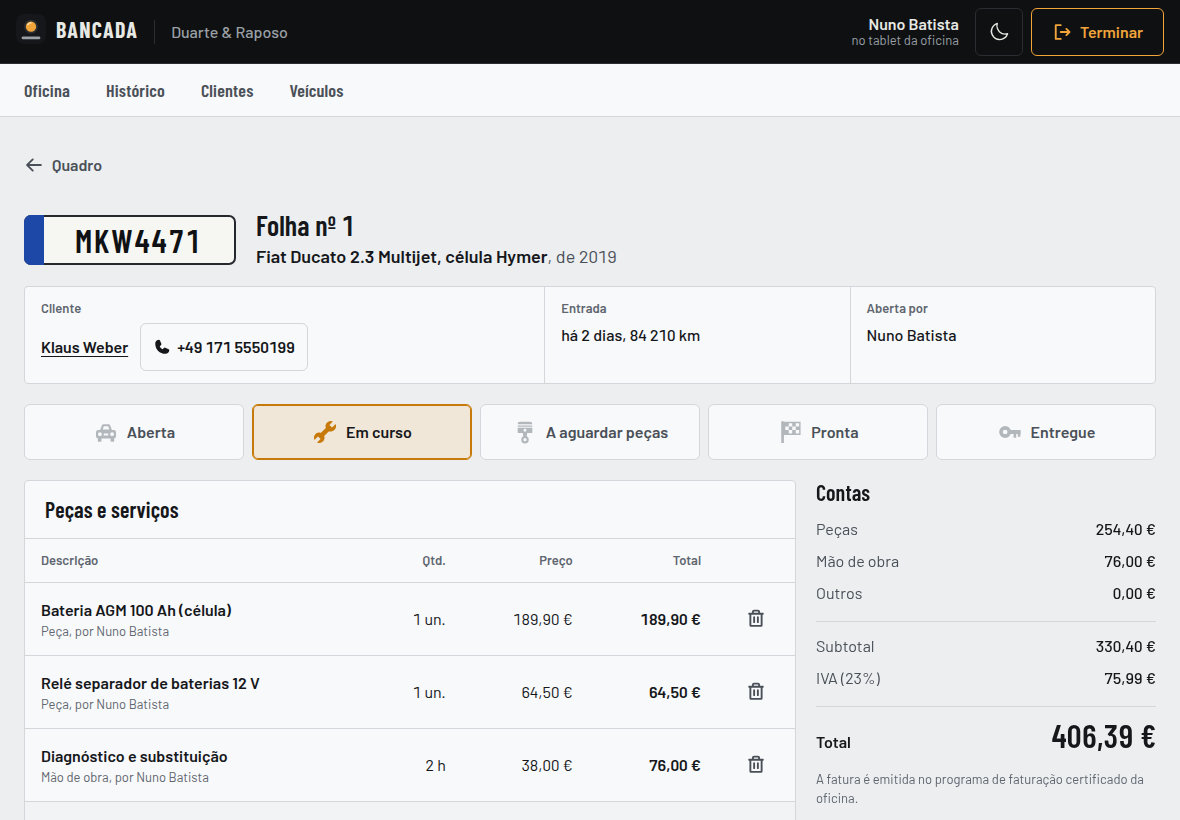
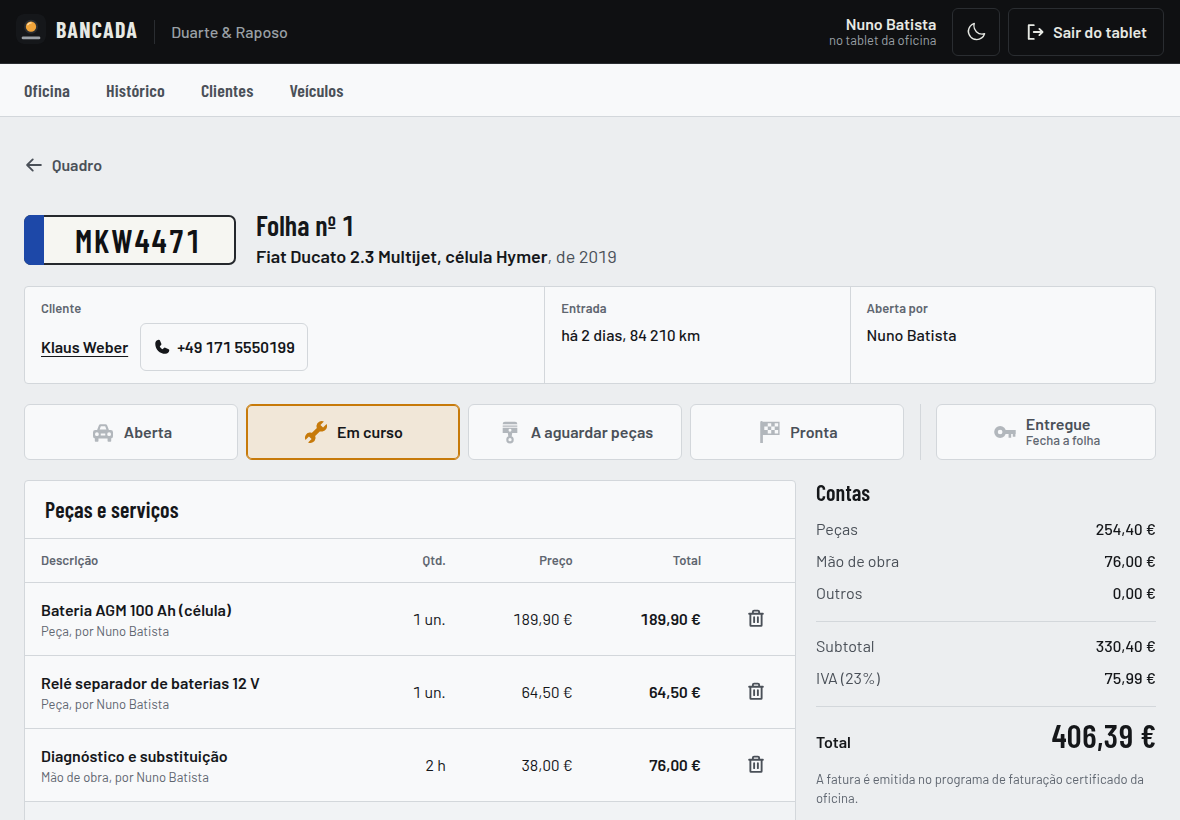
Botão de sair neutro ("Sair do tablet") e um só botão âmbar no quadro vazio (#17)
O botão de sair deixa de ter contorno âmbar (competia com a ação principal de todos os ecrãs no tablet) e, no tablet partilhado, chama-se "Sair do tablet". Com 520 px ou menos fica só o ícone, e a barra de topo deixa de transbordar a 390 px e a 360 px. O quadro vazio fica com um só botão âmbar. O DESIGN.md deixa de se contradizer (barra de topo e 6 px nos botões e campos), e as capturas do README mostram o botão e o seletor novos.

diff --git a/frontend/src/styles/componentes.css b/frontend/src/styles/componentes.css
@@ -126,10 +126,17 @@
     border-color: var(--painel-aro);
   }
 }
-.topo__sair--tablet {
-  padding: 0 var(--e-5);
-  border-color: var(--ambar);
-  color: var(--ambar);
+/* sair é neutro, no computador e no tablet: o âmbar é da ação principal do
+   ecrã (Regra da Voz Única) e um botão de sair a competir com ela era o que
+   mais ruído fazia. No tablet não há hover: também responde ao dedo */
+.topo__sair {
+  padding: 0 var(--e-4);
+  white-space: nowrap;
+}
+.topo__icone:active,
+.topo__sair:active {
+  background: var(--painel-2);
+  border-color: var(--painel-aro);
 }
 .topo__icone:focus-visible,
 .topo__sair:focus-visible {
@@ -1265,6 +1272,17 @@ a.lista__item:focus-visible {
     margin-top: var(--e-1);
     padding: 5px 9px 4px;
     border-radius: 3px;
+  }
+}
+
+/* só o ícone (o botão tem o nome em aria-label): com o texto, a barra de topo
+   transbordava (43 px no tablet a 390 px, 22 px a 360 px no computador) */
+@media (max-width: 520px) {
+  .topo__sair {
+    padding: 0;
+  }
+  .topo__sair-texto {
+    display: none;
   }
 }
 

diff --git a/frontend/src/components/Moldura.jsx b/frontend/src/components/Moldura.jsx
@@ -69,9 +69,14 @@ export function Moldura() {
             >
               {tema === 'escuro' ? <Sun size={22} aria-hidden="true" /> : <Moon size={22} aria-hidden="true" />}
             </button>
-            <button type="button" className={`topo__sair ${noTablet ? 'topo__sair--tablet' : ''}`} onClick={terminar}>
+            <button
+              type="button"
+              className="topo__sair"
+              onClick={terminar}
+              aria-label={noTablet ? 'Sair do tablet' : 'Sair'}
+            >
               <SignOut size={20} weight="bold" aria-hidden="true" />
-              {noTablet ? 'Terminar' : 'Sair'}
+              <span className="topo__sair-texto">{noTablet ? 'Sair do tablet' : 'Sair'}</span>
             </button>
           </div>
         </div>

diff --git a/frontend/src/pages/Quadro.jsx b/frontend/src/pages/Quadro.jsx
@@ -105,10 +105,8 @@ export default function Quadro() {
         )}
 
         {itens && itens.length === 0 && (
-          <Vazio
-            titulo="A oficina está vazia."
-            acao={<Botao variante="primario" para="/entrada" icone={Plus}>Dar entrada a um veículo</Botao>}
-          >
+          // sem botão aqui: a "Nova entrada" está mesmo por cima, e dois botões âmbar a fazer o mesmo eram dois a falar
+          <Vazio titulo="A oficina está vazia.">
             Quando um veículo entrar, aparece aqui com a luz do estado em que está.
           </Vazio>
         )}

diff --git a/frontend/src/pages/Bancada.jsx b/frontend/src/pages/Bancada.jsx
@@ -12,7 +12,7 @@ import '../styles/entrada.css';
 
 // o ecrã de descanso do tablet partilhado: "Quem vai trabalhar?".
 // Cada mecânico toca no seu nome e escreve o PIN. Tudo o que fizer a seguir
-// fica registado em nome dele, até tocar em Terminar (ou ficar parado).
+// fica registado em nome dele, até tocar em "Sair do tablet" (ou ficar parado).
 //
 // É o ecrã que o tablet mais mostra (fica assim quase o dia todo), por isso
 // também diz o estado da oficina: o tablier grande, só de leitura, por cima

diff --git a/CLAUDE.md b/CLAUDE.md
@@ -116,7 +116,8 @@ Memória do projeto para o Claude Code. É carregado no início de cada sessão 
   - **Feito (`layout`):** o ecrã de descanso (`/bancada`) mostra o tablier grande e só de leitura por cima de "Quem vai trabalhar?", com o bloco centrado; sem ligação, os números esbatem-se e dizem de quando são. O `GET /api/auth/bancada` devolve também `porEstado` (só as contagens da oficina do dispositivo; 2 testes novos, 54 no total). Na sessão do tablet, aviso 30 s antes do bloqueio por inatividade ("Ainda estás aí?", botão neutro "Continuar"; tocar ou carregar numa tecla também continua). O Tablier ganhou `somenteLeitura`, `grande` e `antigo`; as medidas passaram a variáveis CSS (`--tablier-simbolo`, `--tablier-nome`, `--tablier-numero`). Verificado no browser em dois temas e quatro larguras, e com o relógio simulado para o aviso.
   - **Feito (`harden`):** no seletor de estado da folha, "Entregue" passou a pedir um segundo toque e a ficar à parte dos quatro estados de trabalho (uma linha e 32 px de intervalo; fila própria abaixo de 1101 px), com "Fecha a folha" à vista em vez de num `title` que o toque não mostra. Reabrir uma folha entregue também pede dois toques, porque reabrir limpa a data de entrega. A pergunta inverte o botão (tinta, nem vermelho nem âmbar), caduca aos 4 s, com Escape, quando o foco sai, quando a folha muda entretanto e quando se toca noutro estado; um segundo toque a menos de 0,4 s do primeiro não conta. Passou a `role="group"` com `aria-pressed` (resolve o item do seletor na secção 10 de `docs/revisao-codigo.md`) e a ter uma linha `role="status"` para leitores de ecrã. O botão tocado diz "A gravar...", o pedido desiste aos 15 s (opção nova `tempoLimite` no cliente da API), o erro fica 8 s e a folha volta a pedir-se (a resposta pode ter-se perdido, ou um colega pode tê-la entregue). Achada e corrigida uma corrida real em `useRecurso`: a atualização de 30 s que já ia a caminho trazia os dados de antes e desfazia no ecrã a alteração gravada (reproduzida sem a correção; com ela deixa de acontecer). Verificado no Chromium com toques simulados: 197 verificações (dois temas em quatro tamanhos; no tema claro, 16 larguras de 360 a 1440 px e a letra a 200%), axe sem violações, mecânico contra gestor, e as falhas 500, 409, sem rede, lento e sem resposta; `npm test` com 54 testes. **Não verificado:** um leitor de ecrã a sério e um tablet a sério.
   - **Feito (`adapt`):** o tablier do quadro do tablet partilhado (modo bancada, `colaborador.via === 'pin'`) sobe um degrau para se ler de pé a 1 ou 2 m. A partir de 1024 px, símbolo de 80 px, nome de 20 px e número de 52 px (154 px por luz); entre 761 e 1023 px, 2×2 com 72 px e 44 px; abaixo disso, como estava. Liguei o tamanho ao modo bancada e não a `pointer: coarse`: a app sabe que é o tablet partilhado, e detetar o toque é um palpite (um gestor com um iPad na secretária, ou um ecrã de parede sem toque, enganam-no). A lista de baixo perde 42 px (4,6 filas visíveis a 820 px, em vez de 5,1). A luz responde ao dedo enquanto se carrega (`:active`). A conta do ângulo visual para um tablet de 10,9" (número de 52 px: 15,9 minutos de arco a 1,5 m, contra 7,9 antes) está no `DESIGN.md`. Verificado no Chromium (toques simulados; não é Safari nem um tablet a sério) em dois temas e dez contextos (tablets de 1024 a 1366 px, ao alto, telemóvel, computador e tablet do gestor), com a oficina cheia (3 algarismos), vazia e a carregar, deslizar a começar numa luz (rola a página e não filtra), axe sem violações e o ecrã reduzido a 40% e a 30% para simular 1,5 e 2 m. **Não verificado:** o teste a 1,5 m num tablet montado na oficina. O `docs/imagens/quadro-tablet.png` do README foi refeito com o quadro novo.
-  - **Por fazer da crítica:** `quieter` ("Terminar" neutro e a chamar-se "Sair do tablet"; corrigir o DESIGN.md: linhas 302 e 398 contradizem-se, e as linhas 374 e 393 dizem 10 px nos botões e campos contra 6 px no código), o `polish` final e os P2 fora do âmbito (um só âmbar nos outros ecrãs, gravação automática das notas). Visto de passagem e não tratado: a 390 px a barra de topo do tablet corta o botão "Terminar", a 360 px a barra de topo transborda 22 px (já era assim), e os avisos de erro dos outros ecrãs continuam a durar 3,2 s (só o da mudança de estado da folha dura 8 s).
+  - **Feito (`quieter`):** o botão de sair deixou de ter contorno âmbar (competia com a ação principal de todos os ecrãs no tablet: a Regra da Voz Única) e no tablet partilhado chama-se "Sair do tablet" em vez de "Terminar" (no computador continua "Sair"). É neutro nos dois modos, responde ao dedo (`:active`) e, com 520 px ou menos, fica só com o ícone (o nome em `aria-label`): a barra de topo deixou de transbordar a 390 px no tablet (43 px) e a 360 px no computador (22 px). A 320 px ainda transborda 28 px: não tratado. O quadro vazio ficou com um só botão âmbar (saiu o "Dar entrada a um veículo", que fazia o mesmo que a "Nova entrada" mesmo por cima). No `DESIGN.md`, a barra de topo já não contradiz a Regra da Voz Única e os botões e os campos dizem 6 px (não 10 px). No sidecar `.impeccable/design.json` e no contrato do quadro só mudou o que referia o botão. No tablet há menos um botão âmbar em todos os ecrãs. Verificado no Chromium (toques simulados): 64 verificações, dois temas, larguras de 320 a 820 px, sair por toque e por teclado, axe sem violações. As capturas `quadro-tablet.png` e `folha.png` do README foram refeitas (a `folha.png` ainda mostrava o seletor de antes do `harden`).
+  - **Por fazer da crítica:** o `polish` final e os P2 fora do âmbito. Um só âmbar no que resta: a Folha tem "Adicionar" e o segmento escolhido do "Tipo", e "Guardar notas" passa a âmbar quando as notas mudam; a nova entrada com cliente novo tem "Guardar cliente", "Continuar" e o segmento escolhido. O `DESIGN.md` (Segmentos) documenta o âmbar do segmento escolhido, e isso contradiz a Voz Única (a lista dos usos permitidos do âmbar não o inclui). Não convém pôr "Guardar notas" a secundário antes da gravação automática das notas, o outro P2. Visto de passagem e não tratado: os avisos de erro dos outros ecrãs continuam a durar 3,2 s (só o da mudança de estado da folha dura 8 s).
 - Este trabalho entrou no `dev` por PRs do ramo `claude/ecstatic-lamport-81qsk8`: o #1 (plataforma, interface, testes e documentação), o #2 (documento das ferramentas), o #3 (auditoria), o #4 e o #7 (memória), o #5 (licença e aviso), o #8 (revisão de código) e o do guia de arranque. A 27/09/2026 o `dev` passou para o `main` pelo PR #6, com o merge feito pelo autor. O que entrou no `dev` depois disso (do #7 em diante) só aparece na página do GitHub quando o `dev` voltar a passar para o `main`, e isso tem de ser pedido ao autor.
 
 **Por fazer** (sugestões, nada disto existe):
@@ -160,4 +161,5 @@ Memória do projeto para o Claude Code. É carregado no início de cada sessão 
 - **30/09/2026**:
   - crítica de design do Quadro com a impeccable (28/40) e primeiro passo do plano, o `layout` do ecrã de descanso da bancada com o aviso antes do bloqueio (ver o Estado atual);
   - segundo passo do plano, o `harden` do seletor de estado da folha: Entregue com dois toques, erros e corrida entre a atualização e a gravação (ver o Estado atual);
-  - terceiro passo, o `adapt`: o tablier do quadro maior no tablet partilhado, para se ler a 1 ou 2 m (ver o Estado atual).
+  - terceiro passo, o `adapt`: o tablier do quadro maior no tablet partilhado, para se ler a 1 ou 2 m (ver o Estado atual);
+  - quarto passo, o `quieter`: "Sair do tablet" neutro, um só botão âmbar no quadro vazio e o `DESIGN.md` sem as incoerências (ver o Estado atual).

diff --git a/DESIGN.md b/DESIGN.md
@@ -371,7 +371,7 @@ Os pictogramas das luzes estão numa grelha de 32 × 32 e usam formas cheias com
 ## Components
 
 ### Buttons
-- **Shape:** cantos suaves (10 px). 48 px de altura, 56 px no tamanho grande.
+- **Shape:** cantos de 6 px (`controlo`: os botões são peças de ferramenta). 48 px de altura, 56 px no tamanho grande.
 - **Primary:** fundo âmbar e texto quase preto, em peso 600. Uma por ecrã. Pode levar a "luz indicadora" de 10 px à esquerda, que pisca enquanto espera pela API, fica verde se correu bem e vermelha se falhou.
 - **Hover / Focus:** o hover só existe em dispositivos com rato (`@media (hover: hover)`). Premir desce o botão 1 px. O foco é um contorno de 2 px em `foco`, afastado 2 px.
 - **Secondary / Ghost:** o secundário tem fundo `superficie-2` e contorno `linha`. O fantasma não tem fundo e o texto é `tinta-2`. É o fantasma que se usa em ações repetidas numa lista, como remover uma linha.
@@ -390,12 +390,12 @@ Os pictogramas das luzes estão numa grelha de 32 × 32 e usam formas cheias com
 - **Uma caixa por ecrã, quando possível.** Na folha de obra, só as linhas ficam em papel; as contas e as notas vão ao lado sem caixa, separadas por uma linha. Os dados da entrada (cliente, entrada, aberto por) ficam em caixas como os campos impressos de uma folha de obra em papel: a etiqueta pequena no canto e o valor por baixo.
 
 ### Inputs / Fields
-- **Style:** fundo `superficie-2`, contorno de 1 px em `linha-forte`, cantos de 10 px, 48 px de altura (56 px na pesquisa do quadro). A etiqueta fica sempre por cima do campo, em Label. O placeholder nunca substitui a etiqueta.
+- **Style:** fundo `superficie-2`, contorno de 1 px em `linha-forte`, cantos de 6 px, 48 px de altura (56 px na pesquisa do quadro). A etiqueta fica sempre por cima do campo, em Label. O placeholder nunca substitui a etiqueta.
 - **Focus:** contorno em `foco` e um anel de 3 px em `foco` a 28%.
 - **Error / Disabled:** contorno `erro` e a mensagem por baixo em `erro`, com peso 500. O erro geral do formulário aparece num bloco no fim, antes do botão.
 
 ### Navigation
-- **Barra de topo:** sempre grafite, 64 px. À esquerda a marca e o nome da oficina, à direita o nome de quem está a trabalhar, o botão de tema e Sair. No tablet partilhado aparece "no tablet da oficina" por baixo do nome, e Sair passa a "Terminar", com contorno âmbar.
+- **Barra de topo:** sempre grafite, 64 px. À esquerda a marca e o nome da oficina, à direita o nome de quem está a trabalhar, o botão de tema e o de sair. No tablet partilhado aparece "no tablet da oficina" por baixo do nome, e Sair passa a "Sair do tablet". Os dois botões são neutros (contorno `painel-linha`, texto `painel-tinta`, fundo `painel-2` ao passar o rato ou ao premir): o âmbar é da ação principal do ecrã, e um botão de sair com contorno âmbar a competir com ela era o que mais ruído fazia (Regra da Voz Única). Com 520 px ou menos o botão de sair fica só com o ícone (o nome fica em `aria-label`), porque com o texto a barra transbordava (43 px a 390 px no tablet, 22 px a 360 px no computador). A 320 px ainda transborda 28 px: não está tratado.
 - **Separadores:** Oficina, Histórico, Clientes e Veículos, mais Equipa e Definições para o gestor. Ficam numa faixa `superficie` com 52 px de altura, só com o nome, em Tab (a letra das placas). O ativo fica com o texto em `tinta` e a barra âmbar de 3 px por baixo. Em ecrãs estreitos a faixa faz scroll na horizontal.
 - **Ecrãs de entrada** (Entrar e Registar): uma faixa grafite em cima, com a marca e uma frase a dizer o que é a Bancada à esquerda e as quatro luzes do tablier à direita, que fazem o autoteste de quando se roda a chave. O formulário fica por baixo, na superfície de trabalho, alinhado pela mesma aresta da marca. Não há lema de marketing nem ecrã dividido ao meio.
 - **Ecrã de descanso da bancada** (`/bancada`): é o que o tablet mostra quase o dia todo, por isso diz o estado da oficina antes de pedir quem vai trabalhar. Por ordem: o tablier grande e só de leitura, "Quem vai trabalhar?" (2.25rem, um degrau abaixo) e os nomes. O bloco fica no meio do ecrã (com muitos nomes, começa no topo e desce). O intervalo entre o tablier e o título (48 px) é maior do que o resto: são dois grupos, o que se lê e o que se toca. Só mostra números (a API devolve as contagens por estado da oficina do dispositivo, sem dados de clientes nem de veículos); para tocar numa folha continua a ser preciso o PIN. Atualiza a cada 20 s. No passo do PIN o tablier desaparece.

diff --git a/.impeccable/surfaces/frontend-src-pages-quadro-jsx.md b/.impeccable/surfaces/frontend-src-pages-quadro-jsx.md
@@ -17,7 +17,7 @@ OWN-WORLD: Painel de instrumentos em grafite (sempre escuro, como num carro) com
 
 STORY: O mecânico olha para o tablier e percebe o estado da oficina num segundo; toca numa luz para ver só esses carros, ou em Nova entrada; abre a folha e regista a peça em poucos toques. O gestor vê o mesmo quadro e as contas do mês.
 
-FIRST VIEWPORT: Barra de topo com Bancada, o nome da oficina, quem está a trabalhar e Terminar. Logo abaixo, a faixa do tablier com quatro luzes grandes (Abertas, Em curso, Aguardam peças, Prontas), cada uma com o número de veículos. Por baixo, pesquisa por matrícula ou cliente e o botão âmbar Nova entrada à direita. Depois a lista: chapa de matrícula, veículo, cliente, queixa, tempo na oficina e luz de estado. Assinatura: a luz acende com um breve cintilar quando um estado passa de zero para um ou mais veículos; tocar numa luz filtra a lista.
+FIRST VIEWPORT: Barra de topo com Bancada, o nome da oficina, quem está a trabalhar e o botão de sair (neutro; no tablet partilhado chama-se Sair do tablet). Logo abaixo, a faixa do tablier com quatro luzes grandes (Abertas, Em curso, Aguardam peças, Prontas), cada uma com o número de veículos. Por baixo, pesquisa por matrícula ou cliente e o botão âmbar Nova entrada à direita. Depois a lista: chapa de matrícula, veículo, cliente, queixa, tempo na oficina e luz de estado. Assinatura: a luz acende com um breve cintilar quando um estado passa de zero para um ou mais veículos; tocar numa luz filtra a lista.
 
 FORM: Tablier de luzes, posição 5 da lista ordenada (1 quadro por estado, 2 quadro de chaves, 3 matrícula primeiro, 4 lista e folha lado a lado, 5 tablier de luzes, 6 lista única com luzes, 7 calha de folhas), escolhido pelo autor. Seed f10a6f2d (sorteio degradado, sem desafiantes).
 
